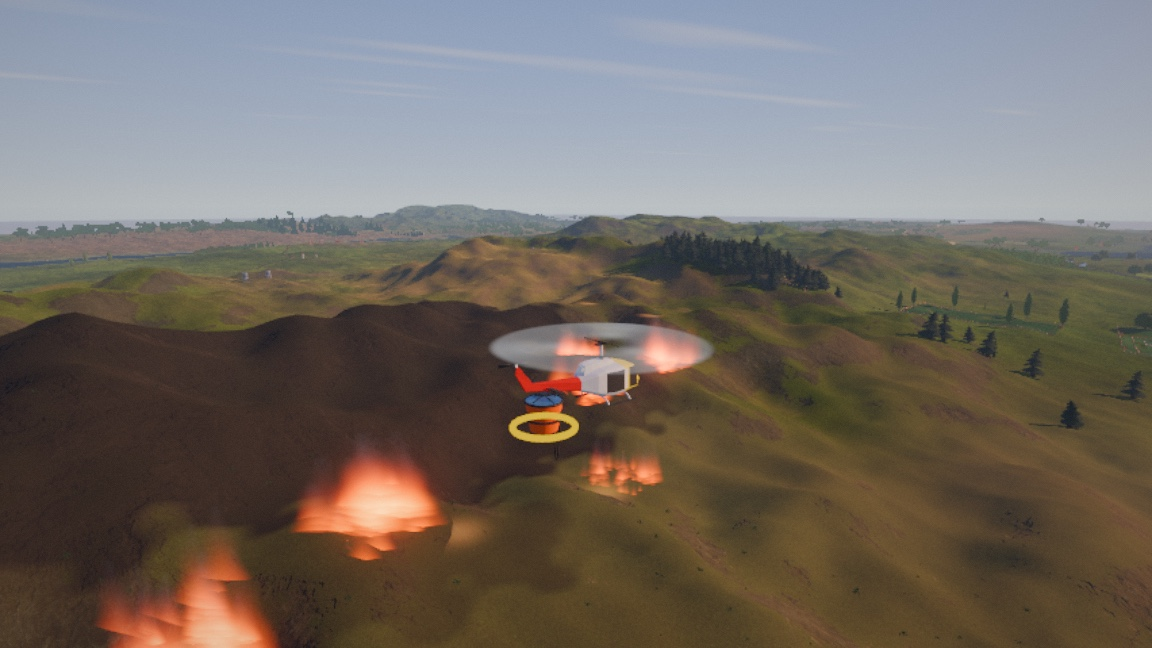
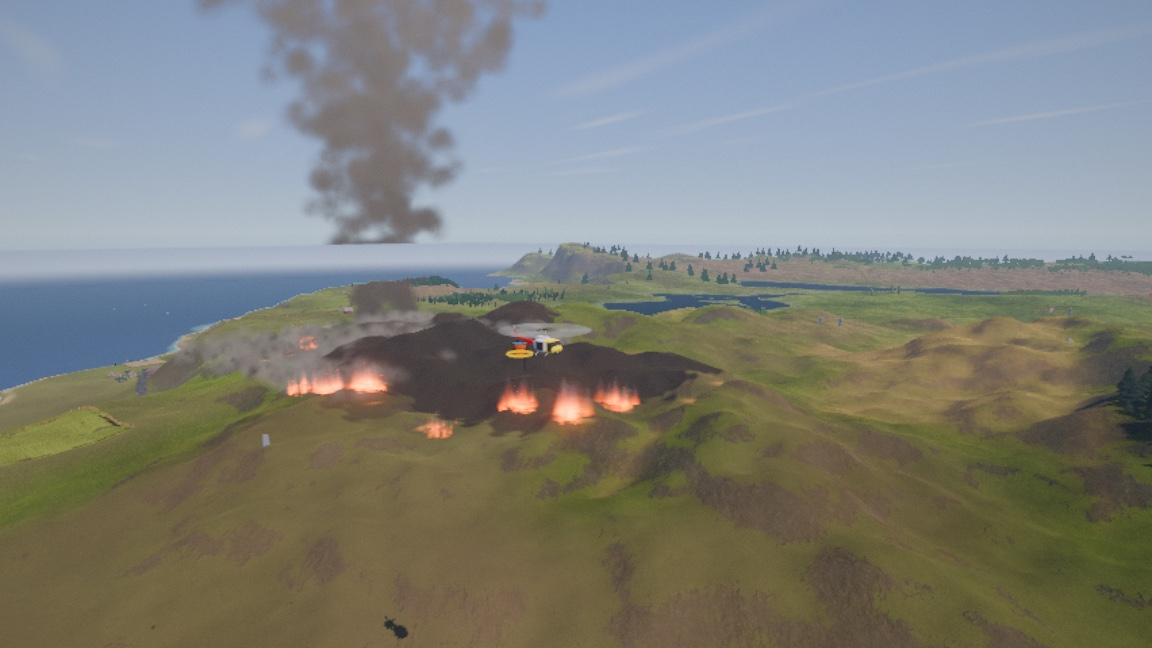
New fire pictures, and the smoke story is no longer an apology
The two wildfire shots were taken before the smoke column worked, so
they showed the thing the page was apologising for. Reshot with the
aircraft placed deliberately rather than left wherever the photo rig
parked it: the bucket is now unmistakably slung and over the burning
edge in both. Adds the column itself as its own picture.

Replaces the "smoke is the worst thing in the game" paragraph with what
was actually wrong with it -- the plume measured one sprite thick from
the fire to the cap, which is why staring at renders never found it.

diff --git a/README.md b/README.md
@@ -185,6 +185,8 @@ leave it, so a kid mashing buttons cannot fall out of it by accident.
 
 ![Low pass over the fire with 900 kg of water on the strop](screenshots/bucket-low-pass.jpg)
 
+![The convection column standing off the burning ridge](screenshots/fire-column.jpg)
+
 Change the seed in the settings menu and you get a completely different island.
 The default map is a compact one where you can see the whole coast at once;
 there are bigger ones in there too, and they are less finished.
@@ -217,12 +219,26 @@ environment variable, so three releases advertised a feature on this page that n
 player could reach. That is fixed in v0.8.0 and it is the kind of thing worth
 saying out loud rather than quietly correcting.
 
-Smoke is the worst thing in the game and I am not going to pretend otherwise.
-It is built like the rotorwash dust — discrete puffs with a short life and a
-fixed rise — so it cannot climb properly, cannot spread as it climbs, and thins
-by fading rather than by expanding. A real wildfire column is the most
-recognisable thing about a wildfire and this is not one. I know exactly why now,
-and it is a rewrite rather than a tuning, so it is the next job.
+Smoke was the worst thing in the game for three releases, and the reason turned
+out to be a single number. Rendering the plume and staring at it got nowhere; I
+had to go and measure it. Integrating the plume's own motion equations and
+counting how many sprites actually overlap at each height gave this:
+
+    30 m up: 0.13    150 m up: 0.14    400 m up: 0.13
+
+One sprite contributes 0.13. So the column was exactly **one sprite thick**, from
+the fire to the top — a handful of separated puffs strung through 600 m of sky,
+which is why it read as scattered specks and not as smoke. Nothing about the
+colour, the texture or the fade was ever going to fix that.
+
+The fix is not a prettier puff. Optical depth works out to `fill × alpha ÷
+footprint`, so at a fixed rendering budget the only free variable is how WIDE the
+plume is spread. Narrowing it — the eddies, not the wind, turned out to be what
+was smearing it 500 m across — bought about nine times the density for nothing.
+Then the sprites got smaller and there are now five times as many of them, which
+is the same lesson the rotorwash dust taught this project a month earlier: a
+metre-scale sprite is an *object*, and objects cannot pile up into a *medium*.
+It costs 1.5x the fill of the version that did not work.
 
 ### Where this started
 
